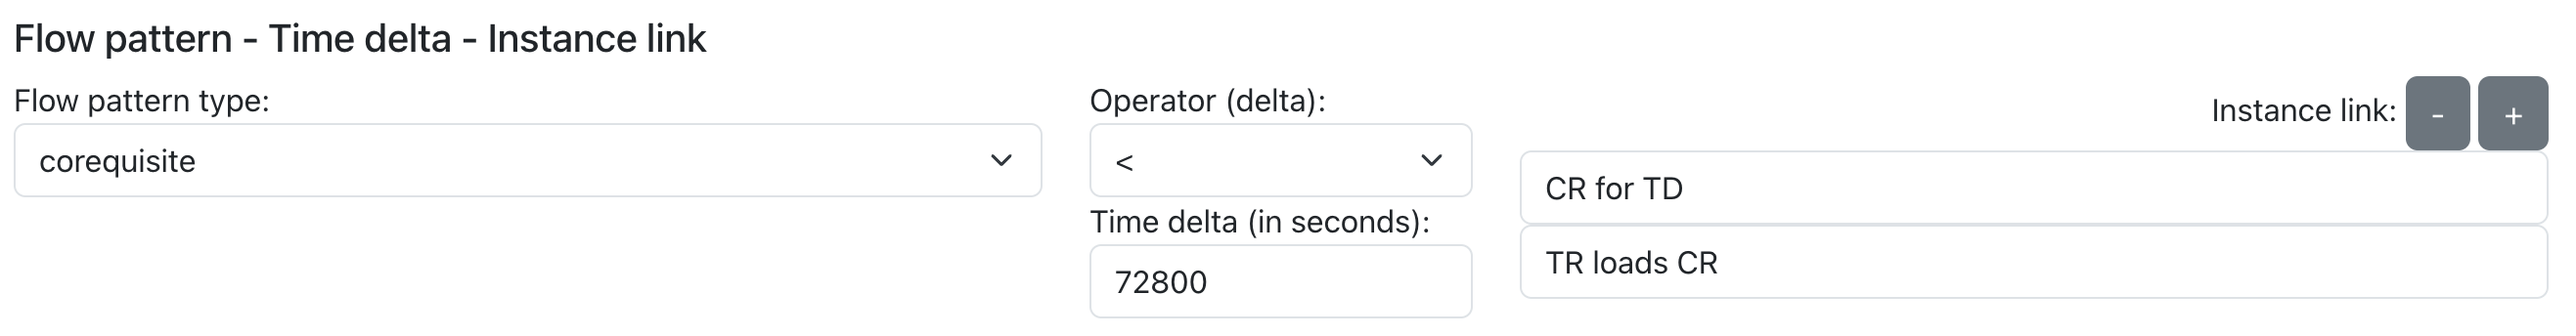
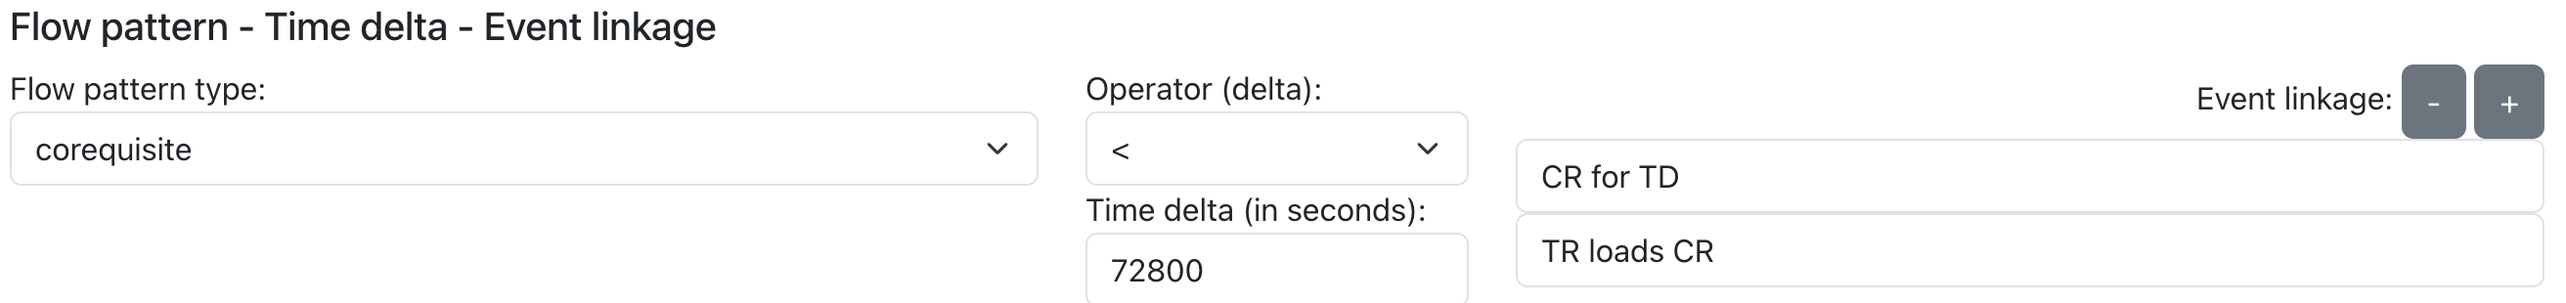
fixed typo

diff --git a/frontend/index.html b/frontend/index.html
@@ -14,7 +14,7 @@
 
 <body>
   <div class="container">
-    <h3>The O.(C.)&sup3;</h3>
+    <h3>Object-Centric Compliance Checking tool</h3>
     <div class="row">
       <div class="col-6">
         <h5>Object-centric event log</h5>
@@ -99,9 +99,9 @@
         </div>
       </div>
     </div>
-    <hr> <!-----------------------------------Flow pattern - Time delta - Instance link------------------------------->
+    <hr> <!-----------------------------------Flow pattern - Time delta - Event linkage------------------------------->
     <div class="row">
-      <h5>Flow pattern - Time delta - Instance link</h5>
+      <h5>Flow pattern - Time delta - Event linkage</h5>
       <div class="col-5 form-group">
         <label for="fp">Flow pattern type:</label>
         <select id="fp" class="form-select">
@@ -132,7 +132,7 @@
         <input id="td" type="number" class="form-control" value="0" />
       </div>
       <div class="col-5 form-group  float-end text-end" id="psi">
-        Instance link:
+        Event linkage:
         <button id="remPsi" class="btn btn-secondary" disabled>-</button>
         <button id="addPsi" class="btn btn-secondary" disabled>+</button>
       </div>
